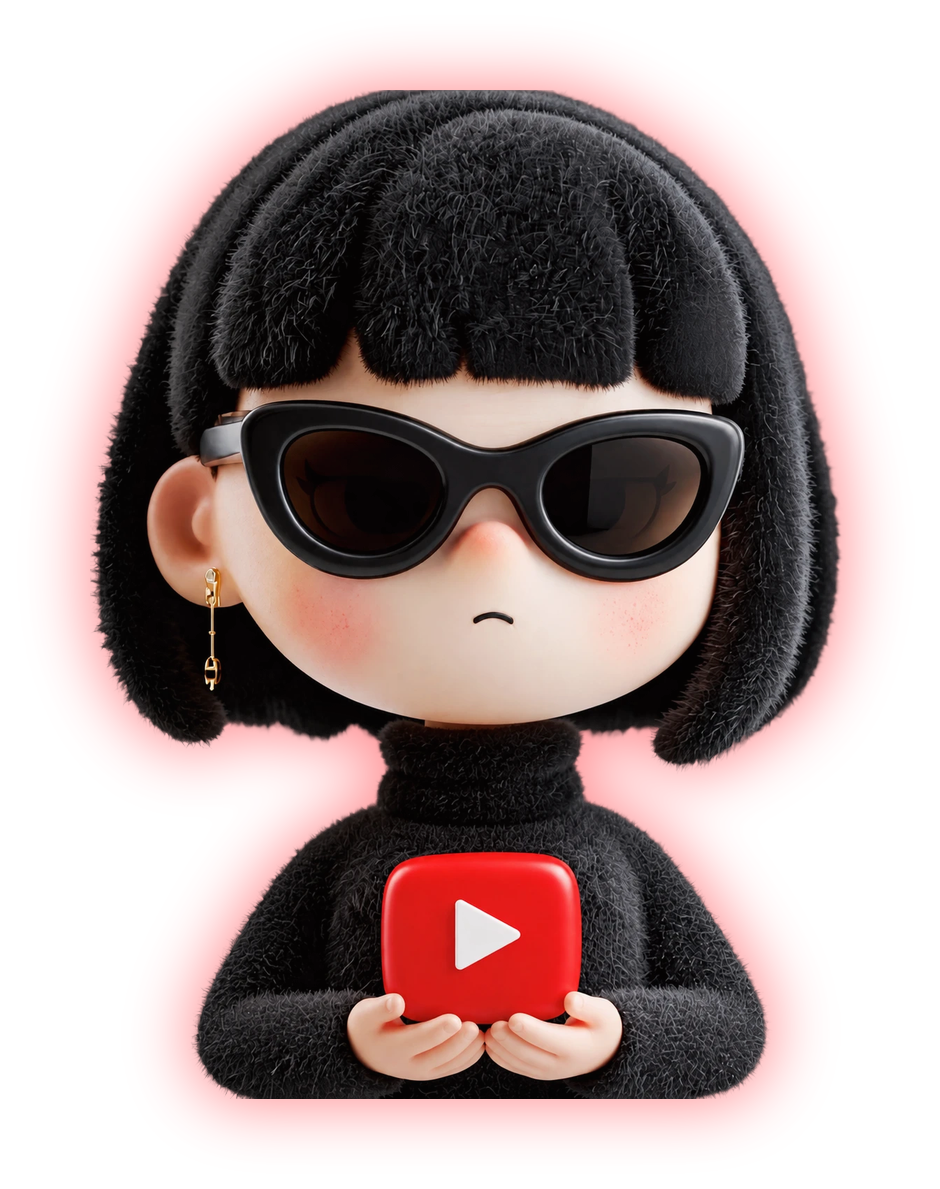
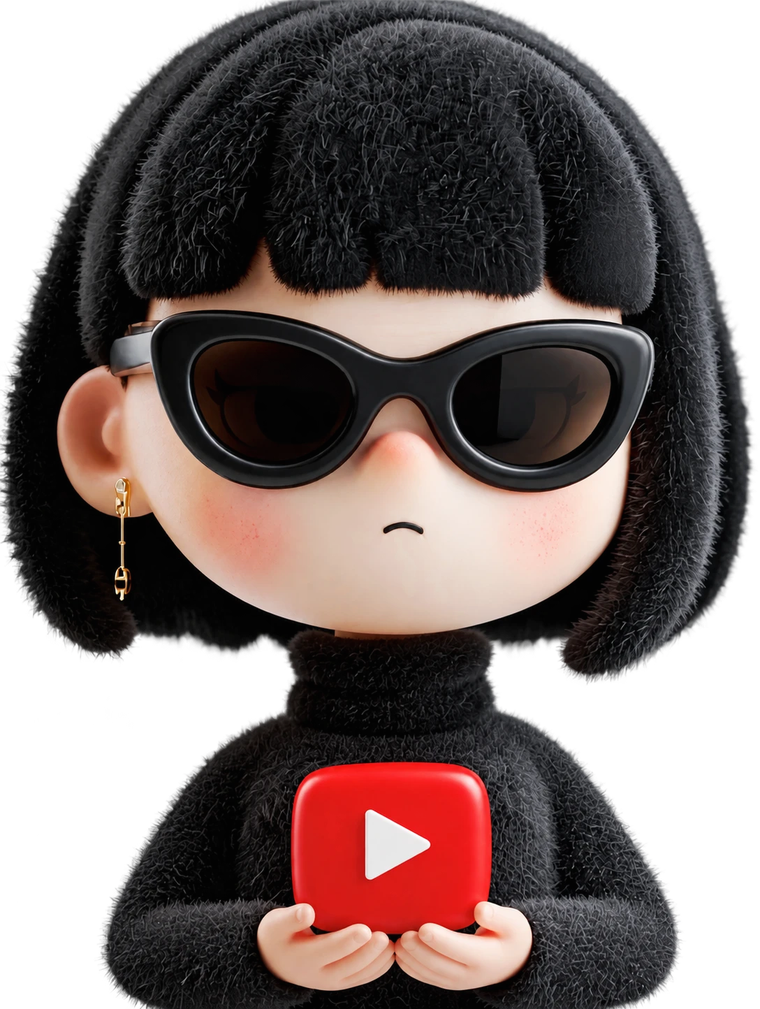
겟슝 사이트를 캡슝과 동일한 밝은 컨셉으로 변경, 캐릭터 레드 글로우 제거
- :root를 캡슝 라이트 팔레트로 교체(라이트 고정)
- 다크 보정(로고 화이트 반전, hero 레드 글로우) 제거
- hero 이미지를 글로우 없는 순수 컷아웃으로 교체

Claude-Session: https://claude.ai/code/session_01MEJ88JVr8deo2EKpmQMG7b

diff --git a/getshoong.html b/getshoong.html
@@ -25,27 +25,27 @@
 <link rel="stylesheet" href="https://fonts.googleapis.com/css2?family=Gothic+A1:wght@700;800&family=Noto+Sans+KR:wght@400;500;700&family=JetBrains+Mono:wght@500&display=swap">
 
 <style>
-  /* 겟슝 = 블랙 컨셉 (라이트 전용 다크 테마) */
+  /* 겟슝 = 캡슝과 동일한 밝은 컨셉 (라이트 고정) */
   :root {
-    color-scheme: dark;
-    --bg: #0B0B0D;
-    --surface: #16161A;
-    --surface-2: #1E1E23;
-    --ink: #F3F3F5;
-    --muted: #9C9CA4;
-    --line: #2A2A31;
-    --accent: #FF5257;
-    --accent-soft: rgba(255,82,87,0.14);
+    color-scheme: light;
+    --bg: #F7F6F4;
+    --surface: #FFFFFF;
+    --surface-2: #F0EEEB;
+    --ink: #1A1614;
+    --muted: #6B6560;
+    --line: #E6E2DD;
+    --accent: #EB4448;
+    --accent-soft: rgba(235,68,72,0.10);
     --accent-ink: #FFFFFF;
-    --cap-bg: #16161A;
-    --cap-line: #33333B;
-    --cap-shadow: rgba(0,0,0,0.6);
-    --mb-bg: rgba(18,18,22,0.86);
+    --cap-bg: #FFFFFF;
+    --cap-line: #DAD5CF;
+    --cap-shadow: rgba(26,22,20,0.14);
+    --mb-bg: rgba(28,30,34,0.82);
     --mb-ink: #F2F3F5;
-    --mb-menu: rgba(30,30,35,0.96);
+    --mb-menu: rgba(44,46,52,0.96);
     --mb-line: rgba(255,255,255,0.12);
-    --mb-dim: #9C9CA4;
-    --mb-hi: #FF5257;
+    --mb-dim: #B4B7BE;
+    --mb-hi: #EB4448;
   }
 
   * { box-sizing: border-box; }
@@ -191,13 +191,7 @@
   @media (max-width: 560px) { .features, .req { grid-template-columns: 1fr; } }
   @media (prefers-reduced-motion: reduce) { .btn { transition: none; } }
 
-  /* 블랙 컨셉 보정: 검정 로고를 화이트로 반전, 어두운 마스코트에 글로우 */
-  .brand .word, .hero h1 .h1-word, footer .word { filter: brightness(0) invert(1); }
-  footer .word { opacity: .95; }
-  .hero-left { position: relative; }
-  .hero-left::before { content: ""; position: absolute; inset: -8% -12%; z-index: 0; pointer-events: none;
-    background: radial-gradient(ellipse at 50% 47%, rgba(255,82,87,0.22), rgba(255,82,87,0.06) 46%, transparent 72%); }
-  .hero .herocat { position: relative; z-index: 1; }
+  /* 라이트 컨셉: 로고/마스코트 기본 색상 그대로 (반전·글로우 없음) */
   .feature:hover, .req .item { border-color: var(--line); }
 </style>
 </head>
